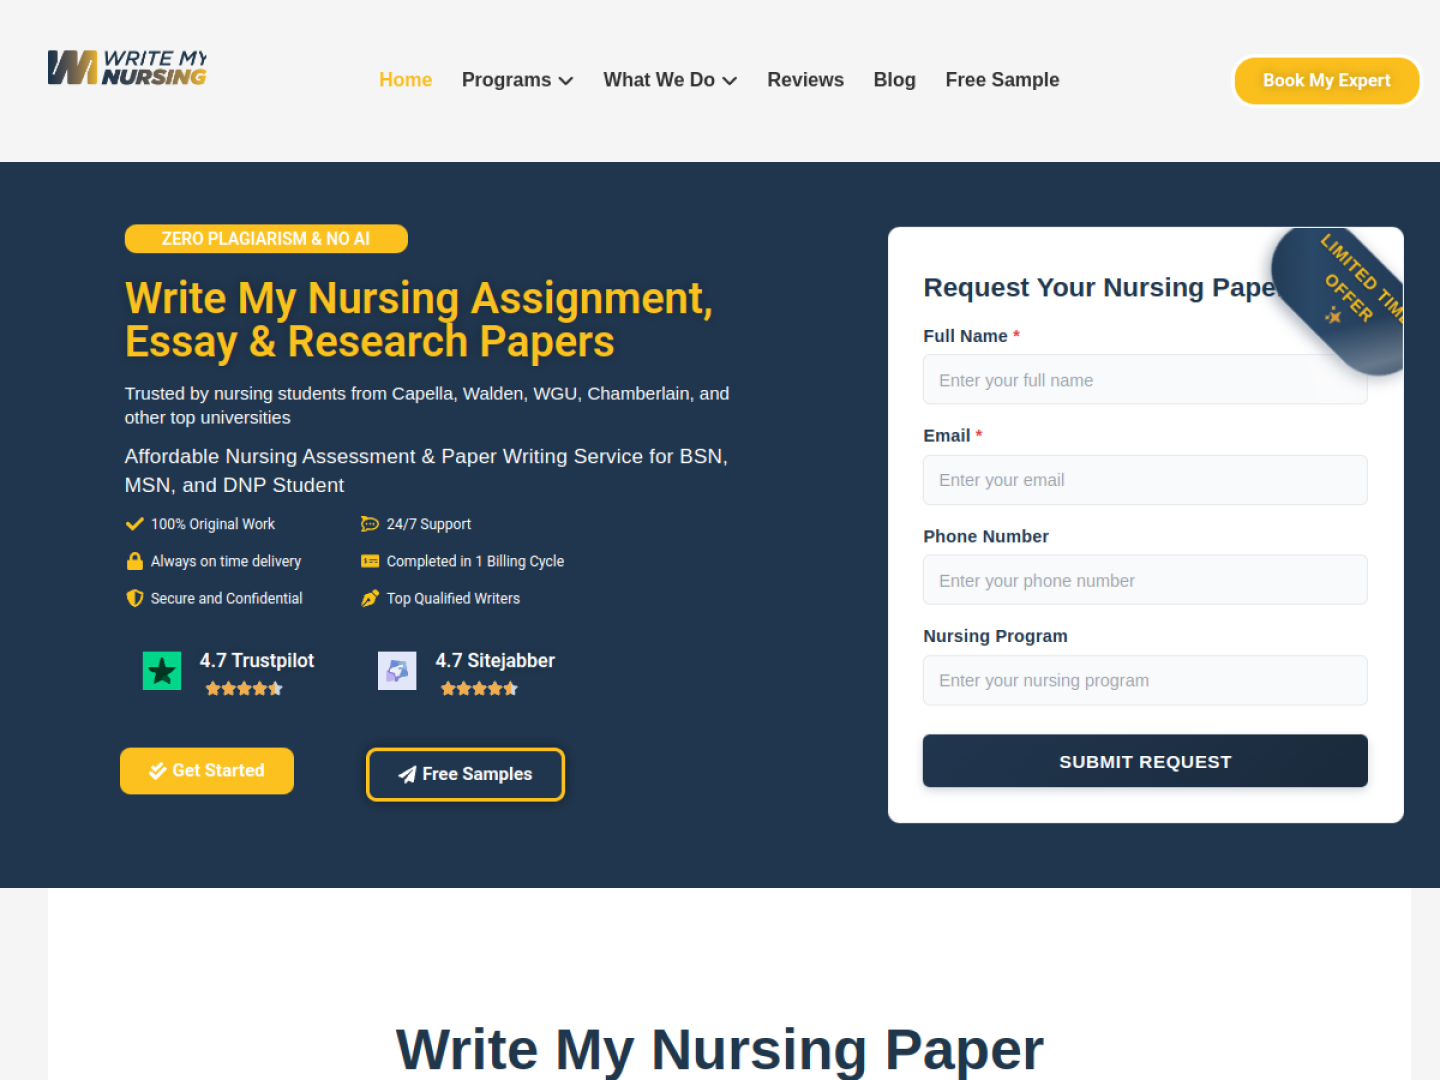
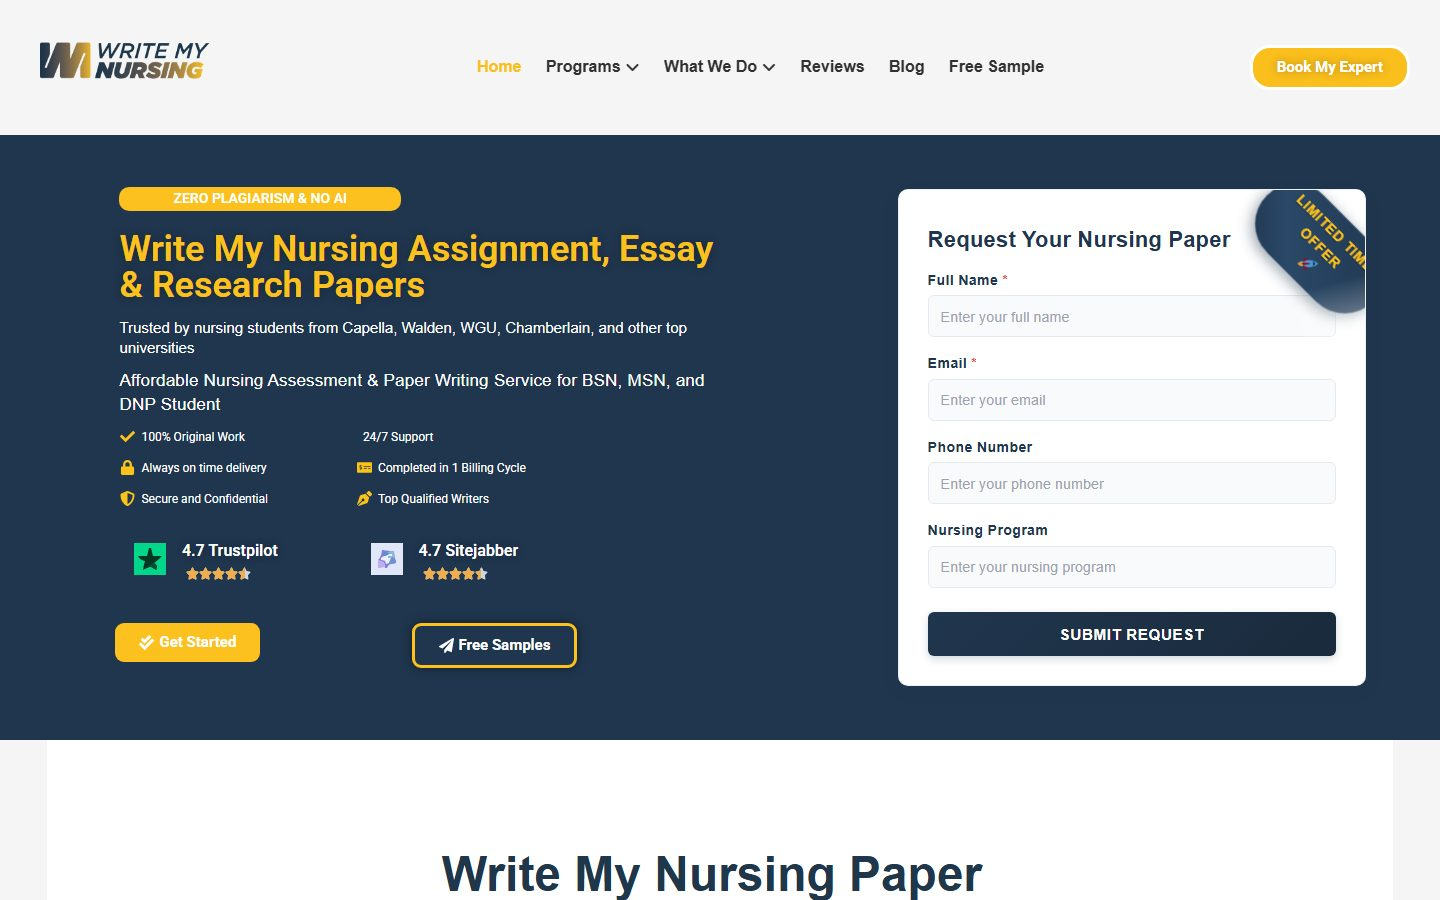
Enhance ProjectPage with ProjectScreenshotGallery for improved image handling. Update ProjectGallery to include a 'View more projects' link. Add new project themes for 'writemynursing', 'assignmentbuds', and 'topyourcourse'. Update associated project images.

diff --git a/components/ui/ProjectScreenshotGallery.tsx b/components/ui/ProjectScreenshotGallery.tsx
@@ -1,0 +1,180 @@
+'use client'
+
+import { useCallback, useEffect, useState } from 'react'
+import { ChevronLeft, ChevronRight, Expand, X } from 'lucide-react'
+import { cn } from '@/lib/cn'
+
+type Props = {
+  images: string[]
+  title: string
+  /** Hero / cover image shown above the case study */
+  coverSrc?: string
+}
+
+export function ProjectScreenshotGallery({ images, title, coverSrc }: Props) {
+  const gallery = images.length > 0 ? images : coverSrc ? [coverSrc] : []
+  const [open, setOpen] = useState(false)
+  const [index, setIndex] = useState(0)
+
+  const openAt = useCallback((i: number) => {
+    setIndex(i)
+    setOpen(true)
+  }, [])
+
+  const close = useCallback(() => setOpen(false), [])
+
+  const prev = useCallback(() => {
+    setIndex((i) => (i - 1 + gallery.length) % gallery.length)
+  }, [gallery.length])
+
+  const next = useCallback(() => {
+    setIndex((i) => (i + 1) % gallery.length)
+  }, [gallery.length])
+
+  useEffect(() => {
+    if (!open) return
+    const onKey = (e: KeyboardEvent) => {
+      if (e.key === 'Escape') close()
+      if (e.key === 'ArrowLeft') prev()
+      if (e.key === 'ArrowRight') next()
+    }
+    document.addEventListener('keydown', onKey)
+    const prevOverflow = document.body.style.overflow
+    document.body.style.overflow = 'hidden'
+    return () => {
+      document.removeEventListener('keydown', onKey)
+      document.body.style.overflow = prevOverflow
+    }
+  }, [open, close, prev, next])
+
+  if (gallery.length === 0) return null
+
+  const coverIndex = coverSrc
+    ? Math.max(0, gallery.indexOf(coverSrc))
+    : 0
+
+  return (
+    <>
+      {coverSrc && (
+        <button
+          type="button"
+          onClick={() => openAt(coverIndex >= 0 ? coverIndex : 0)}
+          className="group relative mt-8 block w-full overflow-hidden rounded-studio border border-atelier-line text-left"
+        >
+          {/* eslint-disable-next-line @next/next/no-img-element */}
+          <img
+            src={coverSrc}
+            alt={`${title} screenshot`}
+            className="max-h-[480px] w-full object-cover object-top transition-transform duration-500 group-hover:scale-[1.01] sm:max-h-[560px]"
+          />
+          <span className="absolute bottom-4 right-4 inline-flex items-center gap-2 rounded-soft bg-black/55 px-3 py-1.5 font-mono text-[11px] uppercase tracking-wider text-white opacity-0 backdrop-blur-sm transition-opacity group-hover:opacity-100">
+            <Expand className="h-3.5 w-3.5" />
+            Full screen
+          </span>
+        </button>
+      )}
+
+      {gallery.length > 1 && (
+        <div className="mt-10 border-t border-atelier-line pt-10">
+          <h2 className="font-display text-title text-atelier-cream">
+            Screenshots
+          </h2>
+          <div className="mt-6 grid gap-4 sm:grid-cols-2">
+            {gallery.map((src, i) => (
+              <button
+                key={src}
+                type="button"
+                onClick={() => openAt(i)}
+                className="group relative overflow-hidden rounded-soft border border-atelier-line bg-atelier-raised text-left transition-colors hover:border-atelier-coral/40"
+              >
+                {/* eslint-disable-next-line @next/next/no-img-element */}
+                <img
+                  src={src}
+                  alt={`${title} UI ${i + 1}`}
+                  className="h-auto w-full object-cover object-top transition-transform duration-500 group-hover:scale-[1.02]"
+                />
+                <span className="absolute inset-0 flex items-center justify-center bg-black/0 transition-colors group-hover:bg-black/25">
+                  <span className="inline-flex h-10 w-10 items-center justify-center rounded-full bg-black/50 text-white opacity-0 backdrop-blur-sm transition-opacity group-hover:opacity-100">
+                    <Expand className="h-4 w-4" />
+                  </span>
+                </span>
+              </button>
+            ))}
+          </div>
+        </div>
+      )}
+
+      {open && (
+        <div
+          className="fixed inset-0 z-[120] flex items-center justify-center bg-black/90 p-3 backdrop-blur-sm sm:p-6"
+          role="dialog"
+          aria-modal="true"
+          aria-label={`${title} screenshot viewer`}
+        >
+          <button
+            type="button"
+            aria-label="Close fullscreen"
+            className="absolute inset-0 cursor-zoom-out"
+            onClick={close}
+          />
+
+          <div className="relative z-[1] flex max-h-full w-full max-w-6xl flex-col">
+            <div className="mb-3 flex items-center justify-between gap-3">
+              <p className="font-mono text-micro text-white/70">
+                {index + 1} / {gallery.length}
+              </p>
+              <button
+                type="button"
+                onClick={close}
+                className="inline-flex h-10 w-10 items-center justify-center rounded-soft border border-white/20 bg-white/10 text-white transition-colors hover:bg-white/20"
+                aria-label="Close"
+              >
+                <X className="h-4 w-4" />
+              </button>
+            </div>
+
+            <div className="relative flex min-h-0 flex-1 items-center justify-center">
+              {gallery.length > 1 && (
+                <button
+                  type="button"
+                  onClick={(e) => {
+                    e.stopPropagation()
+                    prev()
+                  }}
+                  className="absolute left-0 z-[2] inline-flex h-11 w-11 items-center justify-center rounded-full border border-white/20 bg-black/50 text-white backdrop-blur-sm transition-colors hover:bg-black/70 sm:left-2"
+                  aria-label="Previous screenshot"
+                >
+                  <ChevronLeft className="h-5 w-5" />
+                </button>
+              )}
+
+              {/* eslint-disable-next-line @next/next/no-img-element */}
+              <img
+                src={gallery[index]}
+                alt={`${title} fullscreen ${index + 1}`}
+                className={cn(
+                  'max-h-[min(82vh,900px)] w-auto max-w-full rounded-soft object-contain shadow-studio'
+                )}
+                onClick={(e) => e.stopPropagation()}
+              />
+
+              {gallery.length > 1 && (
+                <button
+                  type="button"
+                  onClick={(e) => {
+                    e.stopPropagation()
+                    next()
+                  }}
+                  className="absolute right-0 z-[2] inline-flex h-11 w-11 items-center justify-center rounded-full border border-white/20 bg-black/50 text-white backdrop-blur-sm transition-colors hover:bg-black/70 sm:right-2"
+                  aria-label="Next screenshot"
+                >
+                  <ChevronRight className="h-5 w-5" />
+                </button>
+              )}
+            </div>
+          </div>
+        </div>
+      )}
+    </>
+  )
+}

diff --git a/app/projects/[slug]/page.tsx b/app/projects/[slug]/page.tsx
@@ -6,6 +6,7 @@ import { getProjectBySlug, getProjectSlugs } from '@/lib/projects'
 import { getProjectTheme } from '@/lib/projectThemes'
 import { mdxComponents } from '@/components/mdx/MDXComponents'
 import { Container } from '@/components/ui/Container'
+import { ProjectScreenshotGallery } from '@/components/ui/ProjectScreenshotGallery'
 
 type Props = { params: { slug: string } }
 
@@ -40,24 +41,19 @@ export default function ProjectPage({ params }: Props) {
           ← Work
         </Link>
 
-        <div
-          className="relative mt-8 overflow-hidden rounded-studio border border-atelier-line"
-          style={
-            project.image
-              ? undefined
-              : {
-                  background: `linear-gradient(145deg, ${theme.from} 0%, ${theme.to} 75%)`,
-                }
-          }
-        >
-          {project.image ? (
-            // eslint-disable-next-line @next/next/no-img-element
-            <img
-              src={project.image}
-              alt={`${project.title} screenshot`}
-              className="max-h-[480px] w-full object-cover object-top sm:max-h-[560px]"
-            />
-          ) : (
+        {project.image || gallery.length > 0 ? (
+          <ProjectScreenshotGallery
+            images={gallery}
+            title={project.title}
+            coverSrc={project.image}
+          />
+        ) : (
+          <div
+            className="relative mt-8 overflow-hidden rounded-studio border border-atelier-line"
+            style={{
+              background: `linear-gradient(145deg, ${theme.from} 0%, ${theme.to} 75%)`,
+            }}
+          >
             <div className="relative z-[1] px-6 py-14 sm:px-10 sm:py-20">
               <p className="font-mono text-micro uppercase tracking-wider text-white/70">
                 {theme.label}
@@ -69,8 +65,8 @@ export default function ProjectPage({ params }: Props) {
                 {project.summary}
               </p>
             </div>
-          )}
-        </div>
+          </div>
+        )}
 
         <div className="mx-auto mt-12 max-w-content">
           <p className="font-mono text-micro uppercase text-atelier-coral">
@@ -107,29 +103,6 @@ export default function ProjectPage({ params }: Props) {
               </a>
             )}
           </div>
-
-          {gallery.length > 1 && (
-            <div className="mt-10 border-t border-atelier-line pt-10">
-              <h2 className="font-display text-title text-atelier-cream">
-                Screenshots
-              </h2>
-              <div className="mt-6 grid gap-4 sm:grid-cols-2">
-                {gallery.map((src) => (
-                  <div
-                    key={src}
-                    className="overflow-hidden rounded-soft border border-atelier-line bg-atelier-raised"
-                  >
-                    {/* eslint-disable-next-line @next/next/no-img-element */}
-                    <img
-                      src={src}
-                      alt={`${project.title} UI`}
-                      className="h-auto w-full object-cover object-top"
-                    />
-                  </div>
-                ))}
-              </div>
-            </div>
-          )}
 
           <div className="mt-10 border-t border-atelier-line pt-10">
             <MDXRemote source={project.content} components={mdxComponents} />

diff --git a/components/sections/ProjectGallery.tsx b/components/sections/ProjectGallery.tsx
@@ -38,27 +38,15 @@ export function ProjectGallery({
     >
       <Container>
         <FadeIn>
-          <div className="flex flex-col gap-6 sm:flex-row sm:items-end sm:justify-between">
-            <SectionHeading
-              index={index}
-              title={title}
-              description={description}
-              className="mb-0"
-            />
-            {showViewAll && (
-              <Link
-                href="/work"
-                className="inline-flex shrink-0 items-center gap-2 text-small font-medium text-atelier-coral transition-colors hover:text-atelier-cream"
-              >
-                View all work
-                <ArrowUpRight className="h-4 w-4" />
-              </Link>
-            )}
-          </div>
+          <SectionHeading
+            index={index}
+            title={title}
+            description={description}
+          />
         </FadeIn>
 
         {featured && (
-          <div className="mb-4 mt-10 sm:mb-5 sm:mt-12">
+          <div className="mb-4 sm:mb-5">
             <ProjectCard project={featured} featured className="w-full" />
           </div>
         )}
@@ -68,6 +56,20 @@ export function ProjectGallery({
             <ProjectCard key={project.slug} project={project} />
           ))}
         </div>
+
+        {showViewAll && (
+          <FadeIn delay={0.08}>
+            <div className="mt-10 flex justify-center sm:mt-12">
+              <Link
+                href="/work"
+                className="group inline-flex h-12 items-center gap-2 rounded-soft border border-atelier-line bg-atelier-raised px-7 text-small font-medium text-atelier-cream transition-all hover:border-atelier-coral/45 hover:bg-atelier-elevated"
+              >
+                View more projects
+                <ArrowUpRight className="h-4 w-4 transition-transform group-hover:translate-x-0.5 group-hover:-translate-y-0.5" />
+              </Link>
+            </div>
+          </FadeIn>
+        )}
       </Container>
     </section>
   )

diff --git a/lib/projectThemes.ts b/lib/projectThemes.ts
@@ -73,6 +73,21 @@ export const projectThemes: Record<
     to: '#1A1A17',
     label: 'Security · UK',
   },
+  writemynursing: {
+    from: '#5B8DEF',
+    to: '#1A1A17',
+    label: 'Education · Marketing',
+  },
+  assignmentbuds: {
+    from: '#E07A5F',
+    to: '#1A1A17',
+    label: 'Education · Writing',
+  },
+  topyourcourse: {
+    from: '#3D8BDB',
+    to: '#1A1A17',
+    label: 'Education · FlexPath',
+  },
 }
 
 export function getProjectTheme(slug: string) {